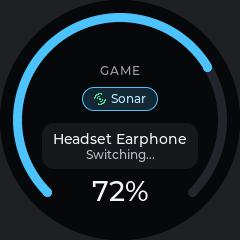
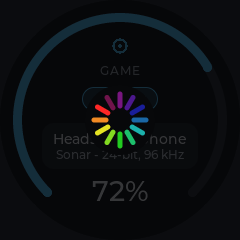
Docs: the busy spinner in CLAUDE.md and AudioDesk's designs
CLAUDE.md lists the Wi-Fi screen and busy spinner checks and busy.cpp. The two AudioDesk
switching designs (screenshots and the HTML recreation) show the spinner over the dimmed screen
instead of the old tile arc and "Switching..." text.

diff --git a/design/recreated/audiodesk.html b/design/recreated/audiodesk.html
@@ -96,6 +96,26 @@
       flex-shrink: 0;
     }
 
+    /* Busy: an app's screen can ask for it (busy in its data) */
+    .busy-overlay {
+      position: absolute;
+      inset: 0;
+      z-index: 10;
+      display: flex;
+      align-items: center;
+      justify-content: center;
+      background-color: rgba(7, 8, 10, 0.8);
+    }
+
+    /* One spoke on every 83 ms, like the knob */
+    .busy-spinner {
+      animation: busy-turn 1s steps(12) infinite;
+    }
+
+    @keyframes busy-turn {
+      to { transform: rotate(360deg); }
+    }
+
     /* 240x240 native Knob OS display */
     .knob-screen {
       width: 240px;
@@ -472,7 +492,7 @@
         <div class="knob-screen">
           <div class="screen-title">AUDIODESK</div>
 
-          <!-- Channel Tiles: Game (Muted), Media (Selected), Aux (Switching) -->
+          <!-- Channel Tiles: Game (Muted), Media (Selected), Aux -->
           <div class="tiles-row">
 
             <!-- Game Tile (Muted) -->
@@ -533,11 +553,10 @@
               </div>
             </div>
 
-            <!-- Aux Tile (Switching) -->
+            <!-- Aux Tile -->
             <div class="tile">
               <svg class="tile-svg" viewBox="0 0 58 58">
                 <circle cx="29" cy="29" r="26.5" fill="#14161B" stroke="#C084FC" stroke-width="3.5" stroke-dasharray="125 50" stroke-dashoffset="-38" />
-                <circle cx="29" cy="29" r="26.5" fill="none" stroke="#FFFFFF" stroke-width="3.5" stroke-dasharray="45 130" stroke-dashoffset="15" stroke-linecap="round" />
               </svg>
               <div class="tile-content">
                 <div class="tile-icon" style="color: #C084FC;">
@@ -578,11 +597,31 @@
             <div class="profile-segment inactive">Home Theater</div>
           </div>
 
+          <!-- Busy: the screen dims and the spinner turns over everything; only Back gets through -->
+          <div class="busy-overlay">
+            <svg class="busy-spinner" viewBox="-35 -35 70 70" width="70" height="70">
+              <circle r="35" fill="var(--screen-bg)" />
+              <g stroke-width="5" stroke-linecap="round">
+                <line x1="0.0" y1="-14.0" x2="0.0" y2="-26.0" stroke="#FF0000" opacity="1.00" />
+                <line x1="-7.0" y1="-12.1" x2="-13.0" y2="-22.5" stroke="#FF8000" opacity="0.95" />
+                <line x1="-12.1" y1="-7.0" x2="-22.5" y2="-13.0" stroke="#FFFF00" opacity="0.90" />
+                <line x1="-14.0" y1="-0.0" x2="-26.0" y2="-0.0" stroke="#80FF00" opacity="0.84" />
+                <line x1="-12.1" y1="7.0" x2="-22.5" y2="13.0" stroke="#00FF00" opacity="0.79" />
+                <line x1="-7.0" y1="12.1" x2="-13.0" y2="22.5" stroke="#00FF80" opacity="0.74" />
+                <line x1="-0.0" y1="14.0" x2="-0.0" y2="26.0" stroke="#00FFFF" opacity="0.69" />
+                <line x1="7.0" y1="12.1" x2="13.0" y2="22.5" stroke="#0080FF" opacity="0.64" />
+                <line x1="12.1" y1="7.0" x2="22.5" y2="13.0" stroke="#0000FF" opacity="0.59" />
+                <line x1="14.0" y1="0.0" x2="26.0" y2="0.0" stroke="#8000FF" opacity="0.53" />
+                <line x1="12.1" y1="-7.0" x2="22.5" y2="-13.0" stroke="#FF00FF" opacity="0.48" />
+                <line x1="7.0" y1="-12.1" x2="13.0" y2="-22.5" stroke="#FF0080" opacity="0.43" />
+              </g>
+            </svg>
+          </div>
         </div>
       </div>
       <div class="card-meta">
         <div class="card-title">Channels Muted &amp; Switching</div>
-        <div class="card-desc">Overview with Game channel muted (dimmed ring, struck-through icon) and Aux switching device to Speaker with active loading arc.</div>
+        <div class="card-desc">Overview with the Game channel muted (dimmed ring, struck-through icon) while AudioDesk switches something: the screen dims and the busy spinner turns over it until the switch is done. Only Back works meanwhile.</div>
       </div>
     </div>
 
@@ -747,7 +786,7 @@
               Headset Earphone
             </div>
             <div style="font-size: 10.5px; font-weight: 500; color: var(--text-secondary); white-space: nowrap; overflow: hidden; width: 100%; margin-top: 2px;">
-              Switching...
+              Sonar · 24-bit, 96 kHz
             </div>
           </div>
 
@@ -756,11 +795,31 @@
             72%
           </div>
 
+          <!-- Busy: the screen dims and the spinner turns over everything; only Back gets through -->
+          <div class="busy-overlay">
+            <svg class="busy-spinner" viewBox="-35 -35 70 70" width="70" height="70">
+              <circle r="35" fill="var(--screen-bg)" />
+              <g stroke-width="5" stroke-linecap="round">
+                <line x1="0.0" y1="-14.0" x2="0.0" y2="-26.0" stroke="#FF0000" opacity="1.00" />
+                <line x1="-7.0" y1="-12.1" x2="-13.0" y2="-22.5" stroke="#FF8000" opacity="0.95" />
+                <line x1="-12.1" y1="-7.0" x2="-22.5" y2="-13.0" stroke="#FFFF00" opacity="0.90" />
+                <line x1="-14.0" y1="-0.0" x2="-26.0" y2="-0.0" stroke="#80FF00" opacity="0.84" />
+                <line x1="-12.1" y1="7.0" x2="-22.5" y2="13.0" stroke="#00FF00" opacity="0.79" />
+                <line x1="-7.0" y1="12.1" x2="-13.0" y2="22.5" stroke="#00FF80" opacity="0.74" />
+                <line x1="-0.0" y1="14.0" x2="-0.0" y2="26.0" stroke="#00FFFF" opacity="0.69" />
+                <line x1="7.0" y1="12.1" x2="13.0" y2="22.5" stroke="#0080FF" opacity="0.64" />
+                <line x1="12.1" y1="7.0" x2="22.5" y2="13.0" stroke="#0000FF" opacity="0.59" />
+                <line x1="14.0" y1="0.0" x2="26.0" y2="0.0" stroke="#8000FF" opacity="0.53" />
+                <line x1="12.1" y1="-7.0" x2="22.5" y2="-13.0" stroke="#FF00FF" opacity="0.48" />
+                <line x1="7.0" y1="-12.1" x2="13.0" y2="-22.5" stroke="#FF0080" opacity="0.43" />
+              </g>
+            </svg>
+          </div>
         </div>
       </div>
       <div class="card-meta">
         <div class="card-title">Channel Switching</div>
-        <div class="card-desc">Channel view while an audio output device change is in progress, displaying "Switching..." status and 72% volume arc.</div>
+        <div class="card-desc">A channel while its output device changes: the screen dims and the busy spinner turns over it until the switch is done. Only Back works meanwhile.</div>
       </div>
     </div>
 

diff --git a/CLAUDE.md b/CLAUDE.md
@@ -91,8 +91,8 @@ There are no unit tests. Check changes with the scripts in `tools/` (see its REA
 Knob Hub's **live preview** (a virtual knob when no simulator is connected), and keep `design/screenshots/` current
 when screens change.
 
-- **Behaviour:** `python -I tools/checks.py` (LEDs, pictures, haptics, toasts, screen timeout, cards) through the preview
-  DLL. Add a check there when you add behaviour.
+- **Behaviour:** `python -I tools/checks.py` (LEDs, pictures, haptics, toasts, screen timeout, cards, the Wi-Fi
+  screen, the busy spinner) through the preview DLL. Add a check there when you add behaviour.
 - **Pixels:** `tools/tour.py` before and after a change, then `tools/compare.py`: screens at 240 must stay identical
   pixel for pixel unless the change is meant to show.
 - **Without the user's mouse or focus:** `tools/sim-capture.ps1` posts wheel and middle-button messages to the
@@ -112,6 +112,8 @@ when screens change.
 - `settings.cpp`: the knob's settings, kept in `settings.json`. Knob Hub's saved settings win: it sends them after
   every hello, and the knob only sends a setting when it's changed on the knob.
 - `message.cpp`, `toast.cpp`.
+- `busy.cpp/.h`: the busy spinner an app's screen can ask for (`busy` in its data), over everything; only Back gets
+  through while it shows.
 - `ui.cpp/.h`: shared widgets, the scaling helpers (`ui::px`, `ui::font`, `ui::size`, `ui::picture_px`), and the ink
   helpers `ui::ink_top` and `ui::ink_height` used to centre text visually.
 - `text_picture.cpp/.h`: text Knob Hub drew as a picture (scripts the fonts lack), scrolling when long.
